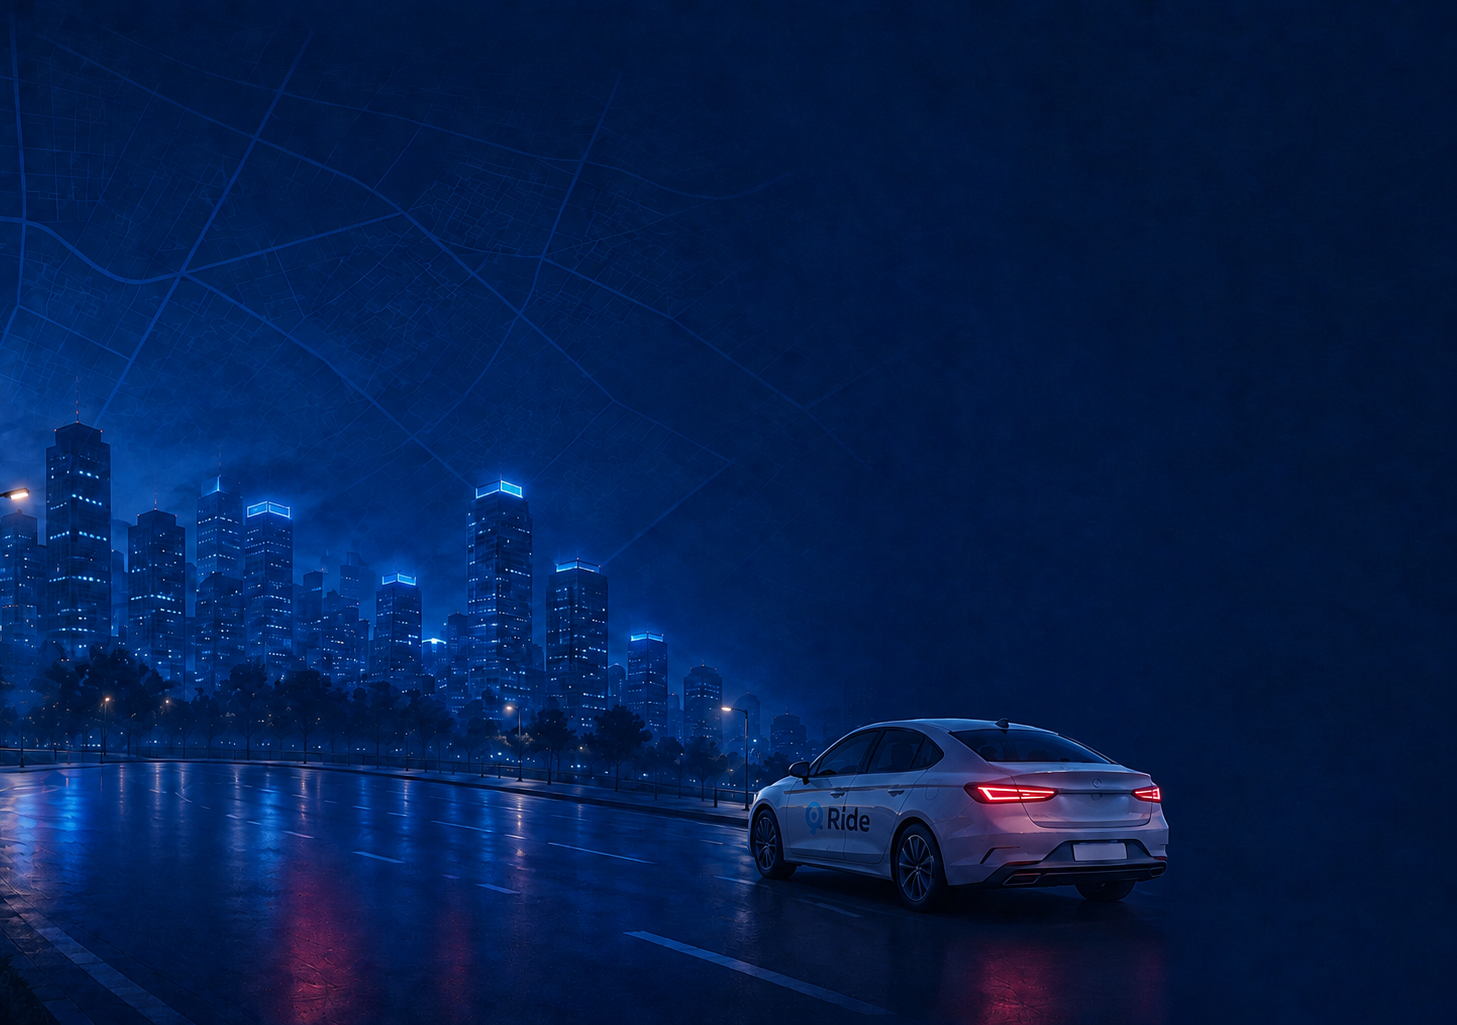
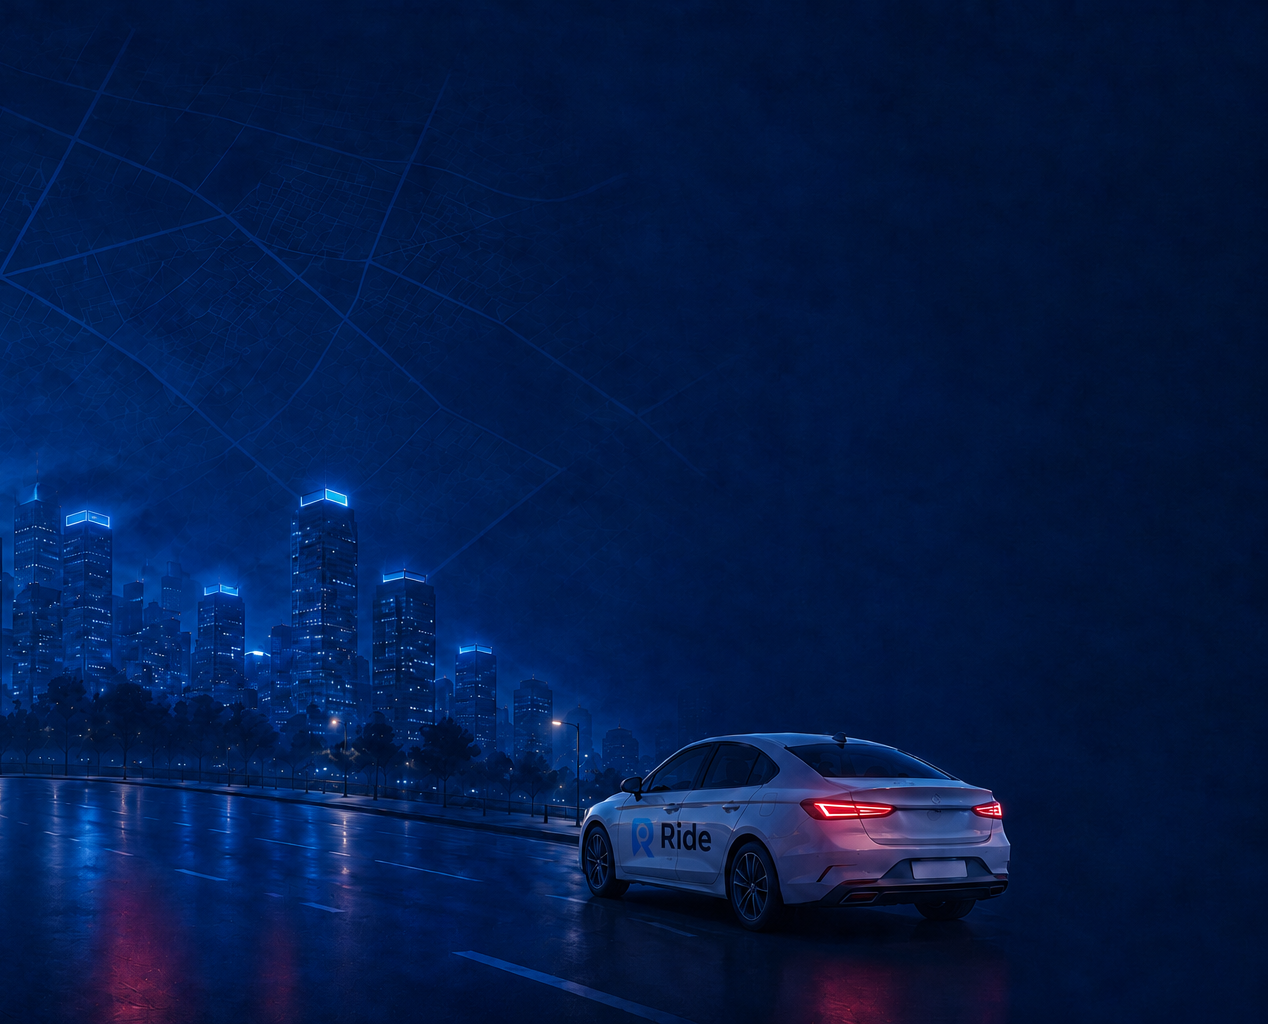
NuevoFondo/FondoBlanco-MasIconos

diff --git a/src/App.css b/src/App.css
@@ -1,5 +1,10 @@
 :root{--ink:#071827;--navy:#0b2538;--sky:#69d2f0;--blue:#2fb8f0;--mint:#62dac2;--paper:#fbfdfe;--muted:#718293;--line:#dfe8ee}
 .loading-screen{min-height:100vh;display:grid;place-content:center;justify-items:center;gap:16px;background:#071827;color:#a9bfce}.auth-page{min-height:100vh;display:grid;grid-template-columns:minmax(420px,1.05fr) minmax(480px,.95fr)}.brand-panel{background:linear-gradient(145deg,#061724,#0c2c43);color:#fff;position:relative;overflow:hidden;padding:48px 7vw;display:flex;flex-direction:column}.brand-panel:after{content:'';position:absolute;width:520px;height:520px;border:90px solid rgba(105,210,240,.04);border-radius:50%;right:-220px;top:-200px}.wordmark,.mobile-brand,.mini-brand{display:flex;align-items:center;gap:12px;font:800 28px Manrope}.logo{width:46px;height:52px;background:linear-gradient(145deg,#89e4f7,#2db9f2);clip-path:polygon(17% 0,83% 0,100% 18%,100% 72%,56% 100%,43% 100%,0 72%,0 18%);display:grid;place-items:center;color:#062033;font:800 28px Manrope}.brand-copy{z-index:1}.brand-copy h1{font:800 clamp(45px,5.3vw,76px)/1.02 Manrope;margin:12vh 0 25px;letter-spacing:-3px}.brand-copy h1 em{color:var(--sky);font-style:normal}.brand-copy>p{font-size:16px;line-height:1.65;color:#a8becc;max-width:450px}.city-art{position:absolute;inset:auto 0 0;height:43%;background:linear-gradient(transparent,rgba(59,164,203,.08));overflow:hidden}.moon{position:absolute;width:110px;height:110px;border-radius:50%;background:rgba(105,210,240,.08);right:15%;top:6%}.buildings{display:flex;align-items:end;gap:10px;position:absolute;inset:auto 5% 0;height:70%}.buildings i{background:#0e354e;flex:1;border-radius:5px 5px 0 0}.buildings i:nth-child(1){height:42%}.buildings i:nth-child(2){height:72%}.buildings i:nth-child(3){height:53%}.buildings i:nth-child(4){height:88%}.buildings i:nth-child(5){height:61%}.buildings i:nth-child(6){height:76%}.route{position:absolute;z-index:2;width:58%;height:42%;left:14%;top:24%;border-bottom:4px solid #42c3f2;border-right:4px solid #42c3f2;border-radius:0 0 70px 0;transform:skewX(-18deg)}.route i{position:absolute;width:13px;height:13px;border:3px solid #65d7f3;border-radius:50%;background:#0c2c43}.route i:first-child{left:-5px;bottom:-8px}.route i:nth-child(2){left:50%;bottom:-8px}.route i:last-child{right:-8px;top:-6px}.car{position:absolute;z-index:3;color:#8ce4f7;font-size:42px;left:58%;top:48%;transform:rotate(-7deg)}.trust{margin-top:auto;z-index:3;display:flex;gap:25px;color:#91aebe;font-size:11px;padding-bottom:4px}.trust span:first-letter{color:var(--mint)}
+.trust{margin-top:auto;z-index:3;display:flex;gap:28px;color:#eaf8ff;font-size:14px;padding-bottom:6px;align-items:center}
+.trust-item{display:flex;align-items:center;gap:8px;font-weight:600}
+.trust-item img{width:28px;height:28px;display:block;filter:brightness(0) invert(1)}
+.trust-item span{color:#ffffff;font-size:14px;font-weight:600;letter-spacing:0.2px}
+.trust span:first-letter{color:inherit !important}
 .form-panel{background:var(--paper);display:grid;place-items:center;padding:48px 6vw;position:relative}.mobile-brand{display:none}.auth-box{width:min(100%,450px);animation:enter .35s ease}.auth-box .eyebrow{color:#1a9fd3;font-weight:800;font-size:10px;letter-spacing:1.6px}.auth-box h2{font:800 36px/1.15 Manrope;color:var(--ink);letter-spacing:-1.2px;margin:10px 0}.auth-box>p{color:var(--muted);font-size:14px;margin:0 0 28px}.welcome-box h2{font-size:46px}.welcome-box>p{margin-bottom:35px}.primary-action,.secondary-action{width:100%;border-radius:12px;padding:14px 17px;font-weight:800;margin-top:12px}.primary-action{border:0;color:#062033;background:linear-gradient(135deg,#7cdef4,#31baf1);box-shadow:0 10px 28px rgba(47,184,240,.2);display:flex;justify-content:center;gap:15px}.primary-action span{margin-left:auto}.primary-action:disabled{opacity:.6;cursor:wait}.secondary-action{border:1px solid var(--line);background:#fff;color:#24394a}.welcome-box>small{display:block;text-align:center;color:#96a3ad;font-size:10px;margin-top:24px}.welcome-box a{color:#168db9;text-decoration:underline}.back{background:none;border:0;color:#758595;padding:0;margin-bottom:30px;font-size:12px}.auth-box form{display:grid;gap:15px}.auth-box label{font-size:11px;font-weight:700;color:#33495a;display:grid;gap:7px}.auth-box input{width:100%;border:1px solid var(--line);background:#fff;border-radius:10px;padding:12px 13px;outline:0;color:var(--ink);font-size:13px}.auth-box input:focus{border-color:#52c6ef;box-shadow:0 0 0 3px rgba(82,198,239,.13)}.password-field{position:relative}.password-field button{position:absolute;right:10px;top:50%;transform:translateY(-50%);border:0;background:none;color:#168fbc;font-size:10px;font-weight:800}.password-field input{padding-right:58px}.two-fields{display:grid;grid-template-columns:1fr 1fr;gap:12px}.role-picker{display:grid;grid-template-columns:1fr 1fr;gap:10px}.role-picker button{border:1px solid var(--line);background:#fff;border-radius:11px;padding:13px;text-align:left;display:grid;color:#243b4c}.role-picker button.selected{border-color:#3bbcec;background:#effaff;box-shadow:inset 0 0 0 1px #3bbcec}.role-picker b{font-size:12px}.role-picker small{color:#81909e;font-size:9px;margin-top:3px}.error{background:#fff1ef;color:#b54d41;border:1px solid #ffd8d2;border-radius:8px;padding:10px 12px;font-size:11px}.form-footer{text-align:center;color:#8794a0;font-size:11px;margin-top:22px}.form-footer button{border:0;background:none;color:#168db9;font-weight:800}.user-home{min-height:100vh;background:#f4f8fa}.user-home header{height:76px;padding:0 6vw;display:flex;align-items:center;justify-content:space-between;background:#071827;color:#fff}.mini-brand .logo{width:32px;height:36px;font-size:18px}.user-home header button{border:1px solid #345064;background:transparent;color:#d6e5ed;border-radius:9px;padding:9px 13px}.user-home>section{max-width:650px;margin:10vh auto;background:#fff;border:1px solid var(--line);border-radius:18px;padding:45px;text-align:center;box-shadow:0 20px 55px rgba(19,49,68,.07)}.success-mark{display:grid;place-items:center;width:50px;height:50px;border-radius:50%;background:#def8f0;color:#1ea984;font-size:23px;margin:auto}.user-home h1{font:800 36px Manrope;margin:8px 0}.user-home section>p:first-of-type{color:#1ba47e;font-size:11px;font-weight:800;margin-top:14px}.home-copy{color:var(--muted)}.account-card{display:grid;grid-template-columns:repeat(3,1fr);gap:10px;margin-top:30px}.account-card div{background:#f5f8fa;border-radius:10px;padding:14px;display:grid;gap:4px}.account-card small{color:#84929e;font-size:9px}.account-card strong{font-size:11px;overflow-wrap:anywhere}.next-note{font-size:11px;color:#95a2ac;margin-top:24px}@keyframes enter{from{opacity:0;transform:translateY(8px)}to{opacity:1;transform:none}}
 @media(max-width:850px){.auth-page{grid-template-columns:1fr}.brand-panel{display:none}.form-panel{min-height:100vh;padding:32px 24px}.mobile-brand{display:flex;position:absolute;left:24px;top:24px;font-size:22px}.mobile-brand .logo{width:31px;height:35px;font-size:18px}.auth-box{margin-top:58px}.welcome-box h2{font-size:39px}.user-home>section{margin:8vh 18px;padding:30px 20px}.account-card{grid-template-columns:1fr}.two-fields{grid-template-columns:1fr}}
 
@@ -11,7 +16,7 @@
 .wordmark,.mobile-brand,.mini-brand,.brand-copy h1,.auth-box h2,.user-home h1{font-family:Sora,sans-serif}.logo{font-family:Sora,sans-serif;background:linear-gradient(145deg,#a5e8f5,#4abde7);filter:drop-shadow(0 8px 20px rgba(74,190,231,.2));animation:logo-breathe 5s ease-in-out infinite}
 .brand-copy h1 em{color:var(--sky);text-shadow:0 0 32px rgba(138,220,240,.17)}.brand-copy>p{color:#b4c8d3}.moon{background:radial-gradient(circle at 38% 38%,rgba(181,237,247,.18),rgba(105,210,240,.035) 66%);animation:moon-glow 7s ease-in-out infinite alternate}
 .buildings i{background:linear-gradient(180deg,#123b50,#0c2d40);box-shadow:inset 0 1px rgba(153,225,240,.08);animation:city-rise .8s both}.buildings i:nth-child(2){animation-delay:.08s}.buildings i:nth-child(3){animation-delay:.16s}.buildings i:nth-child(4){animation-delay:.24s}.buildings i:nth-child(5){animation-delay:.32s}.buildings i:nth-child(6){animation-delay:.4s}
-.route{border-color:#69cde9;filter:drop-shadow(0 0 7px rgba(94,207,238,.36))}.route i{border-color:#8adff0;animation:route-pulse 2.6s ease-in-out infinite}.route i:nth-child(2){animation-delay:.5s}.route i:nth-child(3){animation-delay:1s}.car{color:#a5e8f4;animation:car-float 4s ease-in-out infinite}.form-panel{background:linear-gradient(145deg,#fff,#f8fbfc)}.auth-box{animation:enter-refined .45s cubic-bezier(.22,1,.36,1)}
+.route{border-color:#69cde9;filter:drop-shadow(0 0 7px rgba(94,207,238,.36))}.route i{border-color:#8adff0;animation:route-pulse 2.6s ease-in-out infinite}.route i:nth-child(2){animation-delay:.5s}.route i:nth-child(3){animation-delay:1s}.car{color:#a5e8f4;animation:car-float 4s ease-in-out infinite}.form-panel{background: url('./assets/FondoBlancoRide.png') right calc(50% + 3cm)/contain no-repeat, linear-gradient(145deg,#fff,#f8fbfc)}.auth-box{animation:enter-refined .45s cubic-bezier(.22,1,.36,1)}
 .primary-action,.secondary-action,.role-picker button,.auth-box input,.back{transition:transform .22s ease,box-shadow .22s ease,border-color .22s ease,color .22s ease}.primary-action{background:linear-gradient(135deg,#9ae5f4,#58c3e8);box-shadow:0 10px 28px rgba(56,169,211,.18)}.primary-action:hover:not(:disabled){transform:translateY(-2px);box-shadow:0 15px 34px rgba(56,169,211,.27)}.primary-action span{transition:transform .22s}.primary-action:hover span{transform:translateX(4px)}.secondary-action:hover,.role-picker button:hover{transform:translateY(-2px);border-color:#9ccfdb}.role-picker button.selected{border-color:#59bddc;background:#f0fbfd;box-shadow:inset 0 0 0 1px #59bddc,0 8px 22px rgba(62,173,211,.08)}
 .auth-box input:focus{border-color:#62bfdc;box-shadow:0 0 0 4px rgba(98,191,220,.12);transform:translateY(-1px)}.back:hover{transform:translateX(-3px);color:#157fa8}.user-home header{background:linear-gradient(110deg,#061823,#0d3449)}.user-home>section{animation:enter-refined .45s cubic-bezier(.22,1,.36,1)}.account-card div{transition:transform .22s,box-shadow .22s}.account-card div:hover{transform:translateY(-3px);box-shadow:0 10px 24px rgba(21,60,78,.08)}
 @keyframes enter-refined{from{opacity:0;transform:translateY(12px) scale(.99)}to{opacity:1;transform:none}}@keyframes aurora{to{transform:translate(80px,45px) scale(1.15)}}@keyframes drift{to{transform:translate(-48px,64px) rotate(12deg)}}@keyframes moon-glow{to{transform:scale(1.09);box-shadow:0 0 60px rgba(120,215,235,.09)}}@keyframes city-rise{from{transform:translateY(55px);opacity:.2}to{transform:none;opacity:1}}@keyframes route-pulse{50%{box-shadow:0 0 0 8px rgba(121,218,239,0)}}@keyframes car-float{50%{transform:translate(10px,-5px) rotate(-4deg)}}@keyframes logo-breathe{50%{filter:drop-shadow(0 10px 24px rgba(74,190,231,.35));transform:translateY(-1px)}}
@@ -63,3 +68,6 @@ img.logo{width:100%;height:100%;object-fit:contain;display:block !important}
 .brand-copy .wordmark{gap:0;transform:translateX(-2cm);align-items:center}
 .brand-copy .wordmark img.wordmark-logo,
 .brand-copy .wordmark span{margin:0;padding:0}
+
+/* Improve readability for the brand paragraph */
+.brand-copy>p{color:#eaf8ff !important;font-weight:600;text-shadow:0 1px 2px rgba(0,0,0,0.25);font-size:15px;line-height:1.5}

diff --git a/src/App.tsx b/src/App.tsx
@@ -1,7 +1,10 @@
 import { useEffect, useState } from 'react'
 import type { FormEvent, ReactNode } from 'react'
 import './App.css'
-import logoTipo from './assets/LopoTipo.png'
+import logoTipo from './assets/LogoTipo.png'
+import iconShield from './assets/IconoEscudo.png'
+import iconMoneda from './assets/IconoMoneda.png'
+import iconSoporte from './assets/IconoSoporte.png'
 import AdminDashboard from './AdminDashboard'
 import { supabase } from './lib/supabase'
 import {
@@ -206,7 +209,11 @@ function App() {
     <section className="brand-panel">
       <div className="brand-copy"><div className="wordmark"><img src={logoTipo} className="wordmark-logo" alt="Ride" /><span>Ride</span></div><h1>Muévete con<br/><em>libertad.</em></h1><p>Una forma más segura, transparente y humana de llegar a donde quieres.</p></div>
       <div className="city-art"><div className="moon"/><div className="route"><i/><i/><i/></div><div className="car">▰</div><div className="buildings"><i/><i/><i/><i/><i/><i/></div></div>
-      <div className="trust"><span>◈ Viajes protegidos</span><span>◉ Precio transparente</span></div>
+      <div className="trust">
+        <div className="trust-item"><img src={iconShield} alt="Protegido"/><span>Viajes Protegidos</span></div>
+        <div className="trust-item"><img src={iconMoneda} alt="Transparente"/><span>Precio transparente</span></div>
+        <div className="trust-item"><img src={iconSoporte} alt="Soporte"/><span>Soporte 24/7</span></div>
+      </div>
     </section>
 
     <section className="form-panel">

diff --git a/src/AdminDashboard.tsx b/src/AdminDashboard.tsx
@@ -1,6 +1,6 @@
 import { useEffect, useMemo, useState } from 'react'
 import './AdminDashboard.css'
-import logoAsset from './assets/LopoTipo.png'
+import logoAsset from './assets/LogoTipo.png'
 import { listUsers, panelLabel, type Role, type User } from './lib/auth'
 import { listTrips, watchTrips, esFinal, ESTADO_LABEL, type Trip } from './lib/trips'
 
